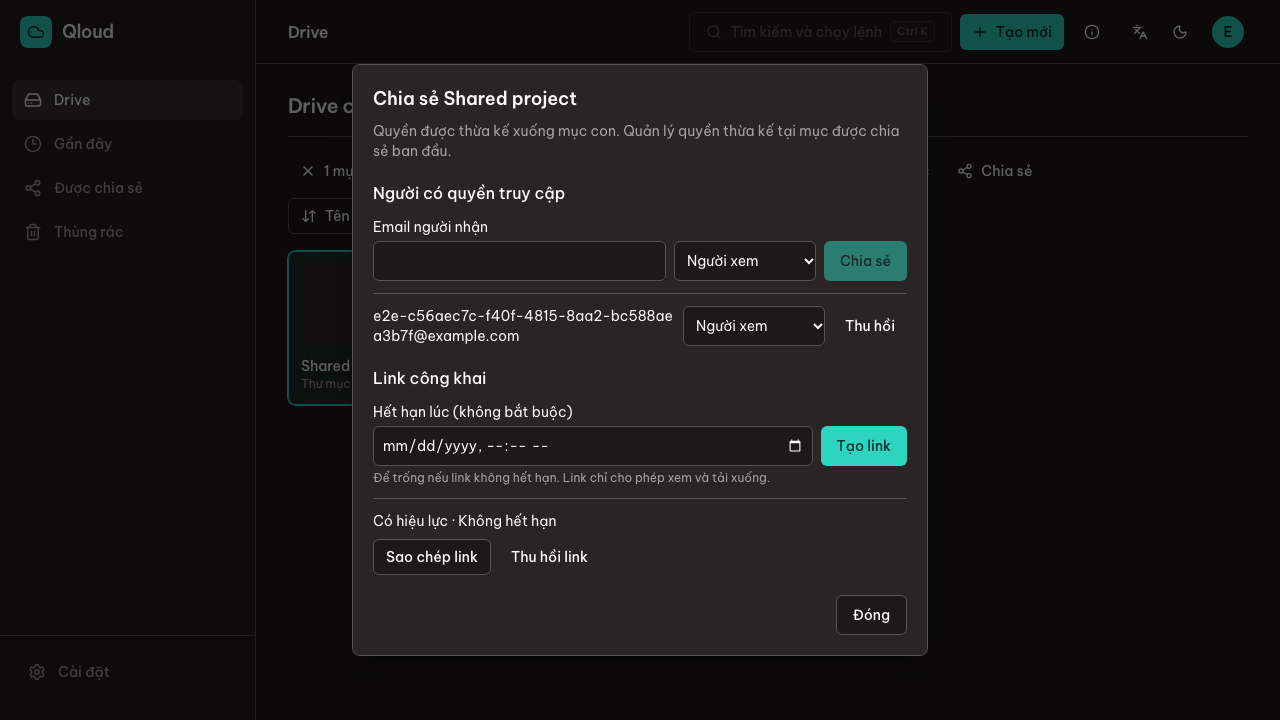
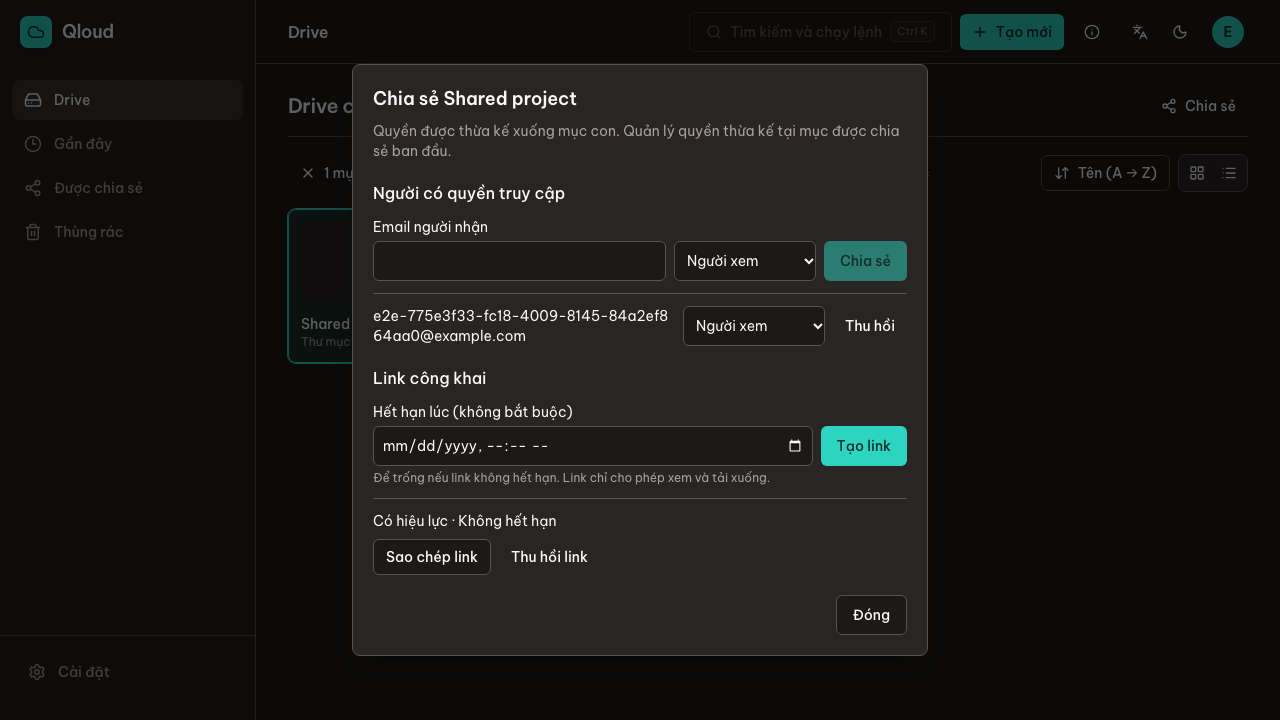
fix(fe-sharing): keep Drive actions stable during double click

diff --git a/qloud_frontend/src/features/sharing/share-dialog.tsx b/qloud_frontend/src/features/sharing/share-dialog.tsx
@@ -89,6 +89,18 @@ function ShareForm({ node }: { node: DriveNode }) {
       : change.isError
         ? t('sharing.errors.failed')
         : localError;
+  if (
+    detail.isError &&
+    !(detail.error instanceof ApiError && detail.error.status === 404)
+  )
+    return (
+      <div className="mt-4 space-y-2">
+        <p role="alert">{t('sharing.errors.failed')}</p>
+        <Button onClick={() => void detail.refetch()}>
+          {t('preview.retry')}
+        </Button>
+      </div>
+    );
   if (detail.isError || (detail.data && !allowed))
     return (
       <p role="alert" className="mt-4">
@@ -144,9 +156,12 @@ function ShareForm({ node }: { node: DriveNode }) {
         {shares.isPending ? (
           <p role="status">{t('sharing.loading')}</p>
         ) : shares.isError ? (
-          <Button onClick={() => void shares.refetch()}>
-            {t('preview.retry')}
-          </Button>
+          <div className="mt-2 space-y-2">
+            <p role="alert">{t('sharing.errors.failed')}</p>
+            <Button onClick={() => void shares.refetch()}>
+              {t('preview.retry')}
+            </Button>
+          </div>
         ) : (
           <ul className="mt-3 space-y-3">
             {shares.data.pages
@@ -205,9 +220,12 @@ function ShareForm({ node }: { node: DriveNode }) {
         ) : links.isPending ? (
           <p role="status">{t('sharing.loading')}</p>
         ) : links.isError ? (
-          <Button onClick={() => void links.refetch()}>
-            {t('preview.retry')}
-          </Button>
+          <div className="mt-2 space-y-2">
+            <p role="alert">{t('sharing.errors.failed')}</p>
+            <Button onClick={() => void links.refetch()}>
+              {t('preview.retry')}
+            </Button>
+          </div>
         ) : (
           <>
             <form

diff --git a/qloud_frontend/src/features/drive/drive-page.tsx b/qloud_frontend/src/features/drive/drive-page.tsx
@@ -410,6 +410,8 @@ export function DrivePage(): React.JSX.Element {
       },
     );
 
+  const shareAction = actionsFor().find((action) => action.key === 'share');
+
   const onSelect = (
     node: DriveNode,
     { toggle, range }: SelectModifiers,
@@ -457,6 +459,17 @@ export function DrivePage(): React.JSX.Element {
             className="h-7 w-48 animate-pulse rounded-md bg-secondary"
             aria-hidden="true"
           />
+        )}
+        {shareAction && (
+          <Button
+            className="ml-auto h-7 shrink-0"
+            variant="ghost"
+            size="sm"
+            onClick={shareAction.run}
+          >
+            <shareAction.icon />
+            {shareAction.label}
+          </Button>
         )}
       </div>
       <ResumeUploads />

diff --git a/qloud_frontend/src/features/sharing/public-page.tsx b/qloud_frontend/src/features/sharing/public-page.tsx
@@ -8,6 +8,7 @@ import { FileViewer } from '@/features/drive/components/file-viewer';
 import {
   CenteredState,
   LoadFailed,
+  LoadingSkeleton,
 } from '@/features/drive/components/browser-states';
 import { useDrivePreferences } from '@/features/drive/preferences';
 import { compactId, uuidFromUrl } from '@/features/drive/paths';
@@ -130,7 +131,7 @@ function PublicBrowser({ token }: { token: string }) {
       />
     );
   if (!root.data || !current.data)
-    return <p role="status">{t('sharing.loading')}</p>;
+    return <LoadingSkeleton view={view} label={t('sharing.loading')} />;
   if (root.data.kind === 'file')
     return (
       <section>

diff --git a/qloud_frontend/src/features/drive/components/drive-toolbar.tsx b/qloud_frontend/src/features/drive/components/drive-toolbar.tsx
@@ -74,7 +74,6 @@ export function DriveToolbar({
                   'move',
                   'location',
                   'trash',
-                  'share',
                   'restore',
                   'delete',
                 ].includes(action.key),

diff --git a/qloud_docs/features/sharing.md b/qloud_docs/features/sharing.md
@@ -85,7 +85,7 @@
 - M5-08: link file chia sẻ riêng mở viewer độc lập nếu folder cha trả 404; không hiển thị folder cha/file cùng cấp, không tải danh sách cha, tắt chuyển file. Đóng viewer về Drive của người nhận. Thu hồi grant khiến mở lại link, preview và download bị từ chối bởi API.
 
 ## Tiến độ M5-05
-- S-11: action Chia sẻ trong toolbar/menu Drive và panel chi tiết cho một mục có `can_share`. Hộp thoại liệt kê grant trực tiếp (cursor), thêm email viewer/editor, đổi role, thu hồi; thông báo quyền thừa kế phải quản lý ở mục nguồn. Không hiển thị email/tên lỗi thô từ server.
+- S-11: action Chia sẻ ở hàng tiêu đề/menu Drive và panel chi tiết cho một mục có `can_share`. Hộp thoại liệt kê grant trực tiếp (cursor), thêm email viewer/editor, đổi role, thu hồi; thông báo quyền thừa kế phải quản lý ở mục nguồn. Không hiển thị email/tên lỗi thô từ server.
 - Owner tạo nhiều link có hạn dùng (nhập giờ local, gửi ISO) hoặc không hết hạn, sao chép URL `/s/:token`, xem trạng thái hết hạn/thu hồi và thu hồi. Editor chỉ quản lý grant người dùng; API links trả 404 thì hiển thị chỉ owner quản lý link. Link thu hồi không bật lại.
 - S-07 `/shared` dùng FileBrowser/NodeCollection với cursor/sắp xếp/grid/list, hiển thị owner và quyền thực tế; chỉ liệt kê grant trực tiếp, không tự bung cây. Folder mở trong Drive; file mở route canonical (kể cả chia sẻ file riêng). Có loading/rỗng/lỗi/thử lại.
 - Drive lấy capabilities cho mục đang chọn để hiện action ghi/chia sẻ. Folder viewer không nhận upload/drop hay mở tạo folder; header tạo mới bị vô hiệu. Breadcrumb/back trong cây được chia sẻ dùng UUID của mục, chỉ gọi “Drive của tôi” khi đúng root của người nhận.

diff --git a/qloud_docs/ui-ux.md b/qloud_docs/ui-ux.md
@@ -115,5 +115,5 @@ Mỗi request chọn tối đa 1.000 mục, theo giới hạn API. Đủ i18n vi
 ### S-07, S-11, S-12 — Chia sẻ (M5-05)
 
 - Được chia sẻ dùng lưới/danh sách và cursor chung Drive, thêm tên owner và quyền thực tế. Mở file qua route riêng, folder qua Drive; không nhận drop upload ở danh sách này.
-- Hộp thoại Chia sẻ mở từ một mục có quyền trong toolbar/menu hoặc panel chi tiết. Hai phần Người có quyền truy cập và Link công khai; email/role, danh sách grant, hạn dùng tùy chọn, copy và thu hồi. Hộp thoại cuộn trong 90dvh, co tới 360px; Esc/Đóng trả focus về nơi mở.
+- Hộp thoại Chia sẻ mở từ một mục có quyền trong hàng tiêu đề Drive/menu hoặc panel chi tiết. Hai phần Người có quyền truy cập và Link công khai; email/role, danh sách grant, hạn dùng tùy chọn, copy và thu hồi. Action Chia sẻ nằm ở hàng tiêu đề Drive giữ nguyên chiều cao khi chọn mục, tránh dịch item trong lúc double click. Hộp thoại cuộn trong 90dvh, co tới 360px; Esc/Đóng trả focus về nơi mở.
 - Trang public dùng PublicLayout với ngôn ngữ/theme, chỉ xem/download. File root mở viewer toàn màn hình, đóng về trang link; folder dùng breadcrumb giới hạn trong cây và FileBrowser. Menu thao tác hoạt động ngay cả khi chưa chọn mục. Link không còn hợp lệ hiện “Nội dung không còn khả dụng”. Báo cáo vi phạm triển khai cùng M5-07.
